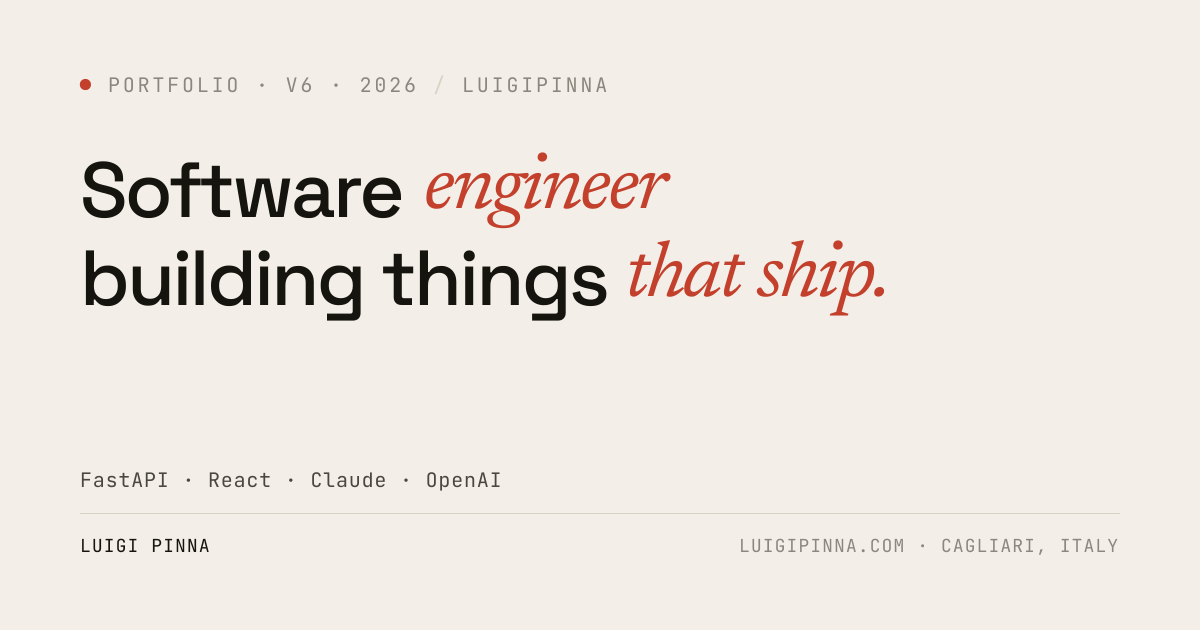
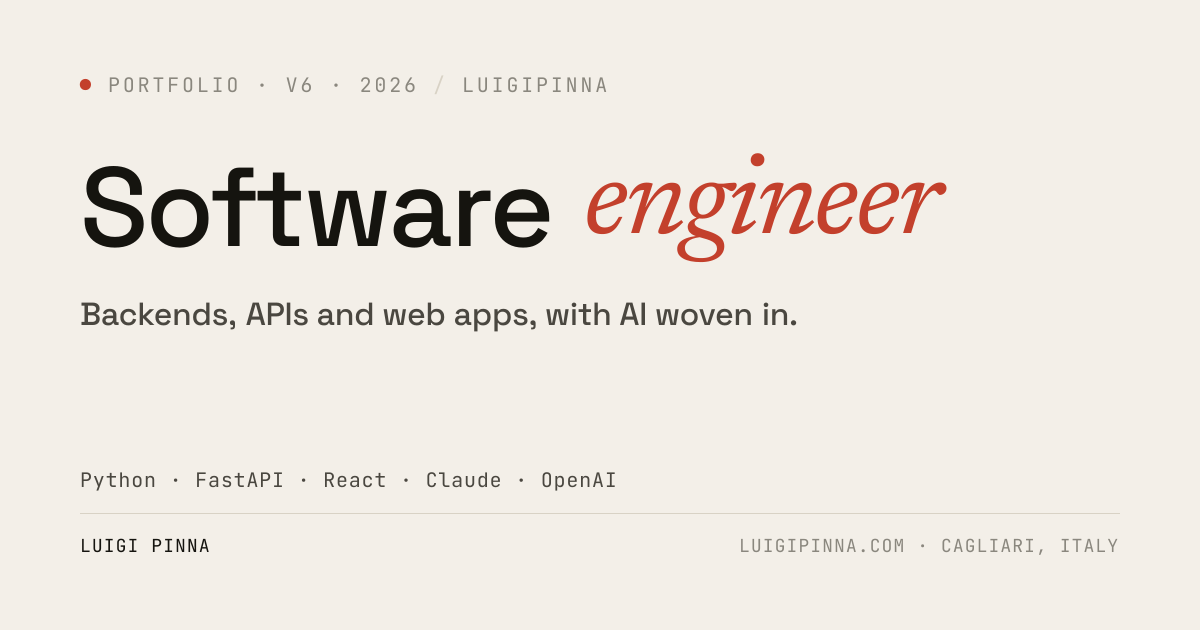
og preview update

Changed region(s): [[0.0617, 0.2413, 0.8017, 0.5429], [0.0617, 0.754, 0.3392, 0.7841], [0.37, 0.754, 0.5242, 0.7841]]

diff --git a/src/pages/index.js b/src/pages/index.js
@@ -39,7 +39,7 @@ export default function Home() {
         <meta property="og:locale" content="it_IT" />
         <meta
           property="og:description"
-          content="Software engineer building things that ship — FastAPI, React, Claude, OpenAI. Based in Cagliari, Italy."
+          content="Software engineer — backends, APIs and web apps, with AI woven in. Python, FastAPI, React, Claude, OpenAI. Based in Cagliari, Italy."
         />
         <meta property="og:image" content="https://luigipinna.com/og.png" />
         <meta property="og:image:width" content="1200" />
@@ -50,7 +50,7 @@ export default function Home() {
         <meta name="twitter:title" content="Luigi Pinna — Software Engineer" />
         <meta
           name="twitter:description"
-          content="Software engineer building things that ship — FastAPI, React, Claude, OpenAI."
+          content="Software engineer — backends, APIs and web apps, with AI woven in. Python, FastAPI, React, Claude, OpenAI."
         />
         <meta name="twitter:image" content="https://luigipinna.com/og.png" />
 
